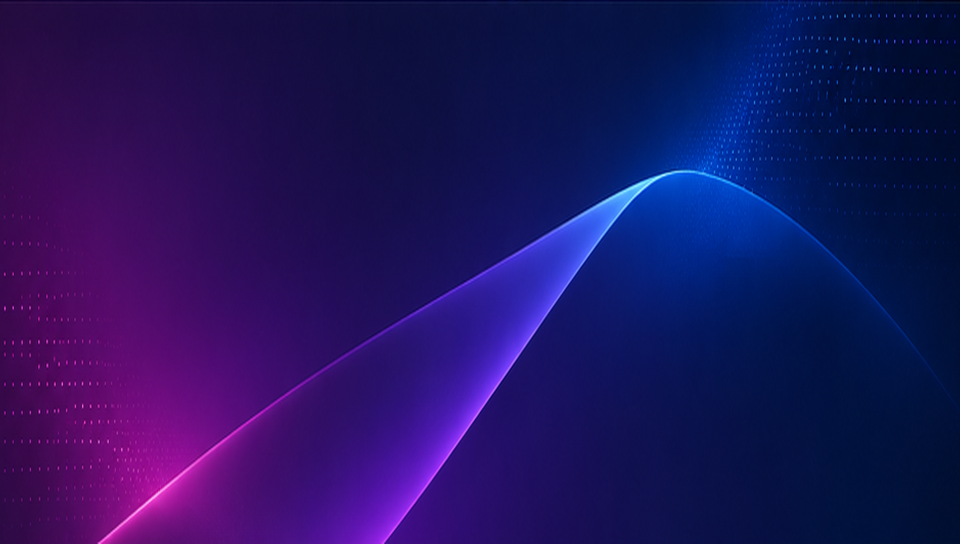
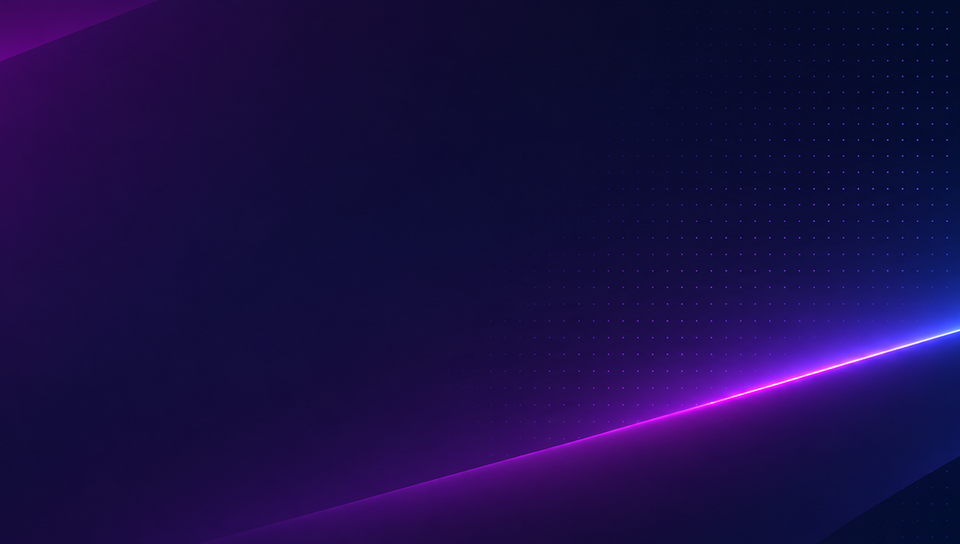
MINOR(ui): add light-blue wallpaper and refresh violet

diff --git a/tests/preview_renderer.c b/tests/preview_renderer.c
@@ -219,7 +219,7 @@ int main(int argc,char **argv) {
     const char *slugs[]={"arcade","dreamcast","gba","nds","gamecube","psx","psp","3ds","ps2","snes","genesis","wii"};
     const char *titles[]={"Bloody Roar II","Castlevania: Symphony of the Night","Crash Bandicoot","Gran Turismo","Metal Gear Solid",
         "Resident Evil","Silent Hill","Dino Crisis","Tomb Raider","Ridge Racer","A game with a very long title and accents: aventura fantástica","Another game"};
-    const char *cases[]={"platforms","carousel","list","grid","settings","integrations","downloads","downloads-empty","romm","about","about-disconnected","about-never-synced","store","empty","last-page","platforms-arcade","platforms-gba","platforms-last","appearance-dark","appearance-violet","appearance-waves"};
+    const char *cases[]={"platforms","carousel","list","grid","settings","integrations","downloads","downloads-empty","romm","about","about-disconnected","about-never-synced","store","empty","last-page","platforms-arcade","platforms-gba","platforms-last","appearance-dark","appearance-violet","appearance-waves","appearance-light-blue"};
     size_t c,i;
     cr=cairo_create(canvas); assert(!FT_Init_FreeType(&freetype)); assert(vp_ui_fonts_load(&typefaces));
     assert(vp_ui_backdrop_init());
@@ -285,7 +285,7 @@ int main(int argc,char **argv) {
         if (c>=18) {
             app.active_screen=VP_SCREEN_SETTINGS; frame.settings_detail=true;
             frame.settings_section=VP_SETTINGS_APPEARANCE; frame.settings_field=(int)c-18;
-            frame.preferences.wallpaper=(int)c-18; frame.preferences.animated=c!=20;
+            frame.preferences.wallpaper=(int)c-18; frame.preferences.animated=c!=21;
         }
         (void)snprintf(app.active_platform,sizeof(app.active_platform),"psx");
         frame.romm_state=c==10?VP_ROMM_UNCONFIGURED:VP_ROMM_CONNECTED;
@@ -303,7 +303,7 @@ int main(int argc,char **argv) {
         if (c>=18) {
             for (i=0;i<VP_UI_WALLPAPER_COUNT;i++) assert(strstr(frame_text,vp_ui_wallpaper((int)i)->label));
             assert(strstr(frame_text,"Fondo animado\n"));
-            assert(strstr(frame_text,c==20?"Desactivado\n":"Activado\n"));
+            assert(strstr(frame_text,c==21?"Desactivado\n":"Activado\n"));
         }
         if (c>=9 && c<=11) {
             assert(strstr(frame_text,"VitaShelf Launcher · 01.00\n"));
@@ -336,6 +336,6 @@ int main(int argc,char **argv) {
     vp_ui_fonts_free(&typefaces);
     assert(!textures && !fonts && drawn>0);
     cairo_destroy(cr); cairo_surface_destroy(canvas); FT_Done_FreeType(freetype);
-    puts("Blueglass renderer: 21 states, three wallpapers, opaque console bodies, border-only focus, partial/missing assets, Inter metrics and cleanup passed");
+    puts("Blueglass renderer: 22 states, four wallpapers, opaque console bodies, border-only focus, partial/missing assets, Inter metrics and cleanup passed");
     return 0;
 }

diff --git a/scripts/prepare-wallpapers.py b/scripts/prepare-wallpapers.py
@@ -8,13 +8,13 @@ from pathlib import Path
 from PIL import Image, ImageOps
 
 ROOT = Path(__file__).resolve().parents[1]
-NAMES = ('dark-blue', 'violet', 'blue-waves')
+NAMES = ('dark-blue', 'violet', 'blue-waves', 'light-blue')
 
 
 def prepare(inputs, output):
     output.mkdir(parents=True, exist_ok=True)
     provenance = []
-    for name, source, top in zip(NAMES, inputs, (0, 12, 0)):
+    for name, source, top in zip(NAMES, inputs, (0, 0, 0, 0)):
         with Image.open(source) as original:
             image = original.convert('RGB')
         bounds = (0, top, image.width, image.height)
@@ -27,14 +27,14 @@ def prepare(inputs, output):
             'source': 'User-supplied image attachment; ownership and upstream license not specified.',
             'sha256_source': hashlib.sha256(source.read_bytes()).hexdigest(),
             'crop_before_fit': bounds,
-            'treatment': 'Remove top-edge remnants, center-crop without distortion, Lanczos resize to 960x544 and 240x136.',
+            'treatment': 'Center-crop without distortion, Lanczos resize to 960x544 and 240x136.',
         })
     (output / 'provenance.json').write_text(json.dumps(provenance, indent=2) + '\n')
 
 
 if __name__ == '__main__':
     parser = argparse.ArgumentParser(description=__doc__)
-    parser.add_argument('inputs', type=Path, nargs=3, metavar='PNG', help='Dark blue, violet, blue waves, in order')
+    parser.add_argument('inputs', type=Path, nargs=4, metavar='PNG', help='Dark blue, violet, blue waves, light blue, in order')
     parser.add_argument('--output', type=Path, default=ROOT / 'assets/blueglass/wallpapers')
     args = parser.parse_args()
     prepare(args.inputs, args.output)

diff --git a/tests/test_ui_assets.py b/tests/test_ui_assets.py
@@ -31,10 +31,10 @@ class ArtworkInventoryTests(unittest.TestCase):
         for name in names:
             self.check_png(ASSETS / "logos" / f"{name}.png",(128,128),512*1024)
 
-    def test_three_wallpapers_and_thumbnails_replace_legacy_backgrounds(self):
+    def test_four_wallpapers_and_thumbnails_replace_legacy_backgrounds(self):
         cmake = (ROOT / "CMakeLists.txt").read_text()
         names = re.search(r"set\(VP_WALLPAPERS\s+(.*?)\)",cmake,re.S).group(1).split()
-        self.assertEqual(names,["dark-blue","violet","blue-waves"])
+        self.assertEqual(names,["dark-blue","violet","blue-waves","light-blue"])
         expected = {f"{prefix}{name}.png" for name in names for prefix in ("","wallpaper_")}
         self.assertEqual({p.name for p in (ASSETS / "wallpapers").glob("*.png")},expected)
         self.assertNotIn("assets/blueglass/backgrounds/",cmake)
@@ -43,7 +43,7 @@ class ArtworkInventoryTests(unittest.TestCase):
             self.check_png(ASSETS / "wallpapers" / f"{name}.png",(960,544),2*1024*1024)
             self.check_png(ASSETS / "wallpapers" / f"wallpaper_{name}.png",(240,136),512*1024)
         provenance=json.loads((ASSETS / "wallpapers/provenance.json").read_text())
-        self.assertEqual(len(provenance),3)
+        self.assertEqual(len(provenance),4)
         for entry in provenance:
             self.assertRegex(entry["sha256_source"],r"^[0-9a-f]{64}$")
             self.assertTrue((ASSETS / entry["file"]).is_file())

diff --git a/tests/test_settings_navigation.py b/tests/test_settings_navigation.py
@@ -176,9 +176,9 @@ int main(void) {
     handle_settings_input(&app,SCE_CTRL_CROSS);
     assert(ui_preferences.wallpaper==1 && saves==1);
     handle_settings_input(&app,SCE_CTRL_DOWN);
-    assert(settings_field==2);
+    assert(settings_field==3);
     handle_settings_input(&app,SCE_CTRL_CROSS);
-    assert(ui_preferences.wallpaper==2 && saves==2);
+    assert(ui_preferences.wallpaper==3 && saves==2);
     handle_settings_input(&app,SCE_CTRL_DOWN);
     assert(settings_field==VP_UI_WALLPAPER_COUNT);
     handle_settings_input(&app,SCE_CTRL_CROSS);
@@ -189,7 +189,7 @@ int main(void) {
     handle_settings_input(&app,SCE_CTRL_DOWN);
     assert(settings_field==0);
     handle_settings_input(&app,SCE_CTRL_CROSS);
-    assert(ui_preferences.wallpaper==2 && saves==5);
+    assert(ui_preferences.wallpaper==3 && saves==5);
     save_ok=true;
     handle_settings_input(&app,SCE_CTRL_UP);
     assert(settings_field==VP_UI_WALLPAPER_COUNT);
@@ -197,7 +197,7 @@ int main(void) {
     assert(settings_field==2);
     handle_settings_input(&app,SCE_CTRL_CIRCLE);
     handle_settings_input(&app,SCE_CTRL_CROSS);
-    assert(settings_field==2);
+    assert(settings_field==3);
     handle_settings_input(&app,SCE_CTRL_CIRCLE);
     handle_settings_input(&app,SCE_CTRL_DOWN);
     assert(settings_section==VP_SETTINGS_ABOUT);

diff --git a/src/vita/main.c b/src/vita/main.c
@@ -823,16 +823,15 @@ static void handle_settings_input(VpApp *app, unsigned int pressed) {
     }
     if (settings_section == VP_SETTINGS_APPEARANCE) {
         if (pressed & SCE_CTRL_UP) {
-            settings_field=settings_field==VP_UI_WALLPAPER_COUNT?2:
-                (settings_field<2?VP_UI_WALLPAPER_COUNT:settings_field-2);
+            settings_field=settings_field>=2?settings_field-2:VP_UI_WALLPAPER_COUNT;
             vp_ui_audio_play(VP_UI_SOUND_NAVIGATION);
         }
         if (pressed & SCE_CTRL_DOWN) {
             settings_field=settings_field==VP_UI_WALLPAPER_COUNT?0:
-                (settings_field<2?2:VP_UI_WALLPAPER_COUNT);
+                (settings_field<2?settings_field+2:VP_UI_WALLPAPER_COUNT);
             vp_ui_audio_play(VP_UI_SOUND_NAVIGATION);
         }
-        if (pressed & (SCE_CTRL_LEFT|SCE_CTRL_RIGHT) && settings_field<2) {
+        if (pressed & (SCE_CTRL_LEFT|SCE_CTRL_RIGHT) && settings_field<VP_UI_WALLPAPER_COUNT) {
             settings_field^=1;
             vp_ui_audio_play(VP_UI_SOUND_NAVIGATION);
         }

diff --git a/src/vita/ui_renderer.c b/src/vita/ui_renderer.c
@@ -25,7 +25,7 @@ static Asset assets[]={
     A("ui_library"),A("ui_store"),A("ui_settings"),A("ui_download"),A("ui_check"),A("ui_star"),
     A("ui_home"),A("ui_key"),A("ui_sync"),A("ui_folder"),A("ui_general"),A("ui_interface"),
     A("ui_storage"),A("ui_info"),A("ui_server"),A("ui_psx"),A("ui_romm"),A("ui_buttons"),
-    A("wallpaper_dark-blue"),A("wallpaper_violet"),A("wallpaper_blue-waves")
+    A("wallpaper_dark-blue"),A("wallpaper_violet"),A("wallpaper_blue-waves"),A("wallpaper_light-blue")
 };
 #undef A
 static unsigned int bg,surface,ink,muted,accent;

diff --git a/src/vita/ui_presentation.c b/src/vita/ui_presentation.c
@@ -104,7 +104,8 @@ const VpUiWallpaper *vp_ui_wallpaper(int index) {
     static const VpUiWallpaper wallpapers[VP_UI_WALLPAPER_COUNT] = {
         {"dark-blue", "Azul oscuro", "wallpaper_dark-blue"},
         {"violet", "Violeta", "wallpaper_violet"},
-        {"blue-waves", "Ondas azules", "wallpaper_blue-waves"}
+        {"blue-waves", "Ondas azules", "wallpaper_blue-waves"},
+        {"light-blue", "Azul claro", "wallpaper_light-blue"}
     };
     return &wallpapers[index>=0 && index<VP_UI_WALLPAPER_COUNT?index:0];
 }

diff --git a/src/vita/ui_presentation.h b/src/vita/ui_presentation.h
@@ -10,7 +10,7 @@ typedef struct { int motion_ms, radius, wallpaper_alpha; } VpUiAppearance;
 typedef struct { int wallpaper; bool animated; } VpUiPreferences;
 typedef struct { const char *id, *label, *thumbnail; } VpUiWallpaper;
 typedef struct { float x, y, scale; } VpUiBackdropTransform;
-#define VP_UI_WALLPAPER_COUNT 3
+#define VP_UI_WALLPAPER_COUNT 4
 #define VP_UI_PREFERENCES_DEFAULT {0, true}
 typedef enum {
     VP_SETTINGS_INTEGRATIONS,

diff --git a/README.md b/README.md
@@ -52,7 +52,7 @@ La Biblioteca ofrece tres maneras de explorar cada plataforma: grilla, lista con
 
 El código se usa una sola vez. No compartas el archivo de configuración de la app: contiene el token de acceso recibido. Para descargas pausadas, presioná `X` para reanudar o `Cuadrado` para quitarlas de la cola.
 
-Los ajustes se ordenan en **Integraciones**, **Descargas**, **Apariencia** y **Acerca de**. En **Apariencia**, elige uno de los tres fondos con la cruceta y `X`, o toca su miniatura. **Fondo animado** activa o desactiva el movimiento sutil; ambos ajustes se guardan automáticamente. En **Acerca de** puedes consultar la versión, el espacio libre y las rutas de almacenamiento; si RomM está conectado, también verás el servidor, la cantidad de juegos de su catálogo y la última sincronización. Si aún no hay un catálogo sincronizado para ese servidor, se indica sin mostrar datos de otro servidor.
+Los ajustes se ordenan en **Integraciones**, **Descargas**, **Apariencia** y **Acerca de**. En **Apariencia**, elige uno de los cuatro fondos con la cruceta y `X`, o toca su miniatura. **Fondo animado** activa o desactiva el movimiento sutil; ambos ajustes se guardan automáticamente. En **Acerca de** puedes consultar la versión, el espacio libre y las rutas de almacenamiento; si RomM está conectado, también verás el servidor, la cantidad de juegos de su catálogo y la última sincronización. Si aún no hay un catálogo sincronizado para ese servidor, se indica sin mostrar datos de otro servidor.
 
 ## English
 
@@ -74,7 +74,7 @@ Los ajustes se ordenan en **Integraciones**, **Descargas**, **Apariencia** y **A
 
 The code is one-time use. Do not share the app configuration file: it contains the access token received. For paused downloads, press `X` to resume or `Square` to remove them from the queue.
 
-Settings are ordered as **Integrations**, **Downloads**, **Appearance**, and **About**. In **Appearance**, choose one of three wallpapers with the directional pad and `X`, or tap its thumbnail. **Animated wallpaper** toggles subtle movement; both preferences save automatically. **About** shows the version, free space, and storage paths; when RomM is connected, it also shows the server, its catalog game count, and the last synchronization. A server without a synchronized catalog is identified explicitly rather than showing another server's data.
+Settings are ordered as **Integrations**, **Downloads**, **Appearance**, and **About**. In **Appearance**, choose one of four wallpapers with the directional pad and `X`, or tap its thumbnail. **Animated wallpaper** toggles subtle movement; both preferences save automatically. **About** shows the version, free space, and storage paths; when RomM is connected, it also shows the server, its catalog game count, and the last synchronization. A server without a synchronized catalog is identified explicitly rather than showing another server's data.
 
 ## Development
 

diff --git a/assets/blueglass/NOTICE.md b/assets/blueglass/NOTICE.md
@@ -13,8 +13,8 @@
   alpha-trimmed header variants. Adapted Carbon
   artwork retains its upstream CC BY-NC-SA terms. Original SVGs and source console
   images are retained under `sources/`; exact revisions and URLs are in `provenance.json`.
-- **Selectable wallpapers**: three images supplied by the project owner for this change
-  (dark blue, violet, and blue waves), replacing the former generated backgrounds.
+- **Selectable wallpapers**: four images supplied by the project owner for this change
+  (dark blue, violet, blue waves, and light blue), replacing the former generated backgrounds.
   Upstream authorship and licensing were not specified; no ownership or new license is claimed.
   Processing removes top-edge remnants, crops without distortion, and resizes to 960×544 with 240×136 thumbnails.
   Source hashes and crop bounds are recorded in `wallpapers/provenance.json` (also bundled).
